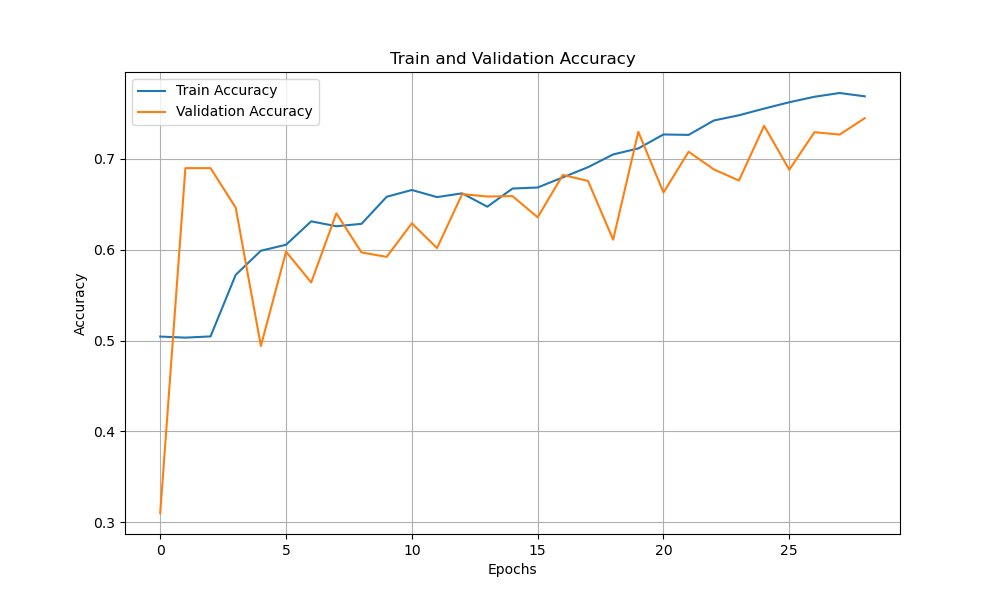
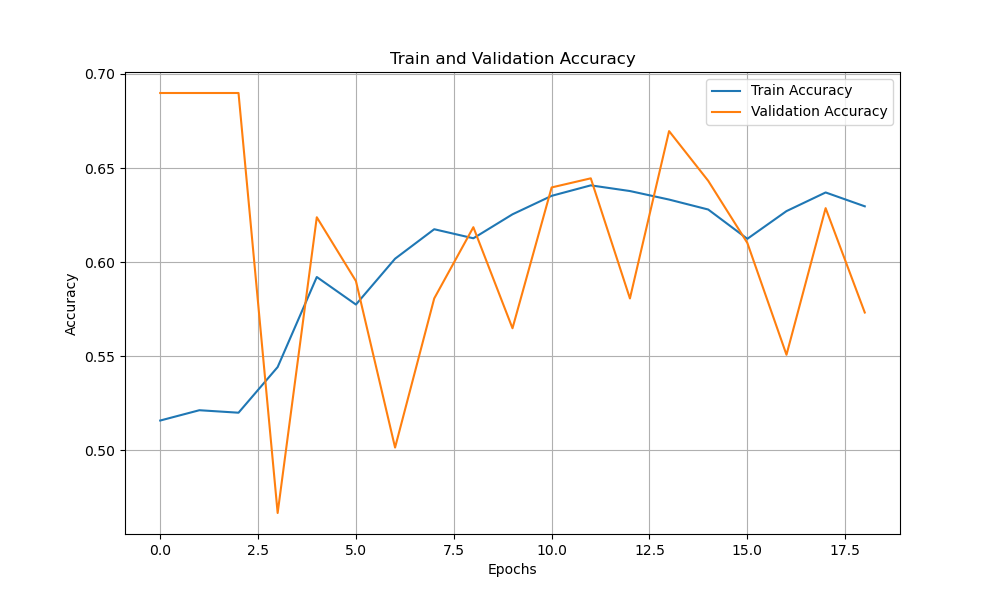
HuBERT feature extraction + 1D swin Transformer improvement

diff --git a/hubert_1d_swin/test_win128.py b/hubert_1d_swin/test_win128.py
@@ -1,0 +1,142 @@
+import os
+import torch
+import torch.nn as nn
+from torch.utils.data import DataLoader
+import pandas as pd
+import matplotlib.pyplot as plt
+from sklearn.metrics import accuracy_score, recall_score, f1_score, confusion_matrix
+import seaborn as sns
+from segdataset import SegmentedAudioDataset, collate_fn
+from swin_transformer_1d import Swin1D
+
+def test_model(model, dataloader, criterion, device):
+    """
+    테스트 데이터셋에 대해 모델 평가를 진행하고, 평균 손실, 정확도, UAR, Macro F1-score,
+    그리고 예측값과 정답 리스트를 반환합니다.
+    """
+    model.eval()
+    total_loss = 0
+    all_preds, all_labels = [], []
+    
+    with torch.no_grad():
+        for features, masks, labels in dataloader:
+            features, masks, labels = features.to(device), masks.to(device), labels.to(device)
+            outputs = model(features, masks)
+            loss = criterion(outputs, labels)
+            total_loss += loss.item()
+            
+            preds = torch.argmax(outputs, dim=1)
+            all_preds.extend(preds.cpu().numpy())
+            all_labels.extend(labels.cpu().numpy())
+    
+    avg_loss = total_loss / len(dataloader)
+    accuracy = accuracy_score(all_labels, all_preds)
+    uar = recall_score(all_labels, all_preds, average="macro")
+    f1 = f1_score(all_labels, all_preds, average="macro")
+    return avg_loss, accuracy, uar, f1, all_preds, all_labels
+
+def validate_file_paths(file_names, base_dir):
+    """
+    주어진 파일 이름 리스트에 대해, base_dir에서 해당 .pt 파일이 존재하는 경로만 반환합니다.
+    """
+    valid_paths = []
+    for file_name in file_names:
+        full_path = os.path.join(base_dir, file_name + ".pt")
+        if os.path.exists(full_path):
+            valid_paths.append(full_path)
+        else:
+            print(f"Warning: File not found - {full_path}")
+    return valid_paths
+
+if __name__ == "__main__":
+    # 환경 설정
+    os.environ["CUDA_DEVICE_ORDER"] = "PCI_BUS_ID"
+    os.environ["CUDA_VISIBLE_DEVICES"] = "3"
+    device = "cuda" if torch.cuda.is_available() else "cpu"
+
+    # 데이터 및 체크포인트 경로 설정 (train.py와 동일)
+    DATA_DIR = "/data/alc_jihan/extracted_features"
+    CSV_PATH = "/data/alc_jihan/split_index/dataset_split_sliced.csv"
+    CHECKPOINT_DIR = "/home/ai/said/hubert_1d_swin/checkpoint_win128"
+    MODEL_PATH = os.path.join(CHECKPOINT_DIR, "best_model.pth")
+    
+    MAX_SEQ_LENGTH = 2048
+    BATCH_SIZE = 64
+
+    # CSV 파일 로드 및 test split 데이터 추출 (Split 값이 "test"인 데이터)
+    df = pd.read_csv(CSV_PATH)
+    test_df = df[df["Split"] == "test"]
+
+    test_files = validate_file_paths(test_df["FileName"].tolist(), DATA_DIR)
+    test_labels = test_df.loc[
+        test_df["FileName"].isin([os.path.basename(f).replace(".pt", "") for f in test_files]),
+        "Class"
+    ].apply(lambda x: 0 if x == "Sober" else 1).tolist()
+
+    test_dataset = SegmentedAudioDataset(test_files, test_labels, max_seq_length=MAX_SEQ_LENGTH)
+    test_loader = DataLoader(test_dataset, batch_size=BATCH_SIZE, shuffle=False, collate_fn=collate_fn, num_workers=16)
+
+    # 클래스 불균형을 고려한 클래스 가중치 (train 시와 동일하게 적용)
+    class_counts = df[df["Split"] == "train"]["Class"].value_counts()
+    class_weights = torch.tensor(
+        [1.0 / class_counts["Sober"], 1.0 / class_counts["Intoxicated"]],
+        dtype=torch.float32
+    ).to(device)
+
+    # 모델 생성 (train.py에서 사용한 하이퍼파라미터와 동일)
+    model = Swin1D(
+        max_length=MAX_SEQ_LENGTH, 
+        window_size=128, 
+        dim=1024, 
+        feature_dim=1024, 
+        num_swin_layers=2, 
+        swin_depth=[2, 6], 
+        swin_num_heads=[4, 16]
+    ).to(device)
+
+    # 저장된 모델 파라미터 로드
+    if os.path.exists(MODEL_PATH):
+        model.load_state_dict(torch.load(MODEL_PATH, map_location=device))
+        print("Loaded model from:", MODEL_PATH)
+    else:
+        print("ERROR: Model checkpoint not found!")
+        exit(1)
+
+    criterion = nn.CrossEntropyLoss(weight=class_weights)
+
+    # 테스트 진행
+    test_loss, test_acc, test_uar, test_f1, all_preds, all_labels = test_model(model, test_loader, criterion, device)
+
+    # 테스트 결과를 콘솔에 출력
+    print("Test Results:")
+    print(f"Loss: {test_loss:.4f}")
+    print(f"Accuracy: {test_acc:.4f}")
+    print(f"UAR (Unweighted Average Recall): {test_uar:.4f}")
+    print(f"Macro F1-score: {test_f1:.4f}")
+
+    # 테스트 결과를 텍스트 파일로 저장
+    results_text = (
+        f"Test Results:\n"
+        f"Loss: {test_loss:.4f}\n"
+        f"Accuracy: {test_acc:.4f}\n"
+        f"UAR (Unweighted Average Recall): {test_uar:.4f}\n"
+        f"Macro F1-score: {test_f1:.4f}\n"
+    )
+    results_file = os.path.join(CHECKPOINT_DIR, "test_results.txt")
+    with open(results_file, "w") as f:
+        f.write(results_text)
+    print(f"Test results saved to: {results_file}")
+
+    # Confusion Matrix 계산 및 이미지 저장
+    cm = confusion_matrix(all_labels, all_preds)
+    plt.figure(figsize=(8, 6))
+    sns.heatmap(cm, annot=True, fmt="d", cmap="Blues",
+                xticklabels=["Sober", "Intoxicated"],
+                yticklabels=["Sober", "Intoxicated"])
+    plt.ylabel("True Label")
+    plt.xlabel("Predicted Label")
+    plt.title("Confusion Matrix")
+    cm_file = os.path.join(CHECKPOINT_DIR, "confusion_matrix.png")
+    plt.savefig(cm_file)
+    plt.close()
+    print(f"Confusion matrix saved to: {cm_file}")

diff --git a/hubert_1d_swin/test_win64.py b/hubert_1d_swin/test_win64.py
@@ -1,0 +1,142 @@
+import os
+import torch
+import torch.nn as nn
+from torch.utils.data import DataLoader
+import pandas as pd
+import matplotlib.pyplot as plt
+from sklearn.metrics import accuracy_score, recall_score, f1_score, confusion_matrix
+import seaborn as sns
+from segdataset import SegmentedAudioDataset, collate_fn
+from swin_transformer_1d import Swin1D
+
+def test_model(model, dataloader, criterion, device):
+    """
+    테스트 데이터셋에 대해 모델 평가를 진행하고, 평균 손실, 정확도, UAR, Macro F1-score,
+    그리고 예측값과 정답 리스트를 반환합니다.
+    """
+    model.eval()
+    total_loss = 0
+    all_preds, all_labels = [], []
+    
+    with torch.no_grad():
+        for features, masks, labels in dataloader:
+            features, masks, labels = features.to(device), masks.to(device), labels.to(device)
+            outputs = model(features, masks)
+            loss = criterion(outputs, labels)
+            total_loss += loss.item()
+            
+            preds = torch.argmax(outputs, dim=1)
+            all_preds.extend(preds.cpu().numpy())
+            all_labels.extend(labels.cpu().numpy())
+    
+    avg_loss = total_loss / len(dataloader)
+    accuracy = accuracy_score(all_labels, all_preds)
+    uar = recall_score(all_labels, all_preds, average="macro")
+    f1 = f1_score(all_labels, all_preds, average="macro")
+    return avg_loss, accuracy, uar, f1, all_preds, all_labels
+
+def validate_file_paths(file_names, base_dir):
+    """
+    주어진 파일 이름 리스트에 대해, base_dir에서 해당 .pt 파일이 존재하는 경로만 반환합니다.
+    """
+    valid_paths = []
+    for file_name in file_names:
+        full_path = os.path.join(base_dir, file_name + ".pt")
+        if os.path.exists(full_path):
+            valid_paths.append(full_path)
+        else:
+            print(f"Warning: File not found - {full_path}")
+    return valid_paths
+
+if __name__ == "__main__":
+    # 환경 설정
+    os.environ["CUDA_DEVICE_ORDER"] = "PCI_BUS_ID"
+    os.environ["CUDA_VISIBLE_DEVICES"] = "1"
+    device = "cuda" if torch.cuda.is_available() else "cpu"
+
+    # 데이터 및 체크포인트 경로 설정 (train.py와 동일)
+    DATA_DIR = "/data/alc_jihan/extracted_features"
+    CSV_PATH = "/data/alc_jihan/split_index/dataset_split_sliced.csv"
+    CHECKPOINT_DIR = "/home/ai/said/hubert_1d_swin/checkpoint_win64"
+    MODEL_PATH = os.path.join(CHECKPOINT_DIR, "best_model.pth")
+    
+    MAX_SEQ_LENGTH = 2048
+    BATCH_SIZE = 64
+
+    # CSV 파일 로드 및 test split 데이터 추출 (Split 값이 "test"인 데이터)
+    df = pd.read_csv(CSV_PATH)
+    test_df = df[df["Split"] == "test"]
+
+    test_files = validate_file_paths(test_df["FileName"].tolist(), DATA_DIR)
+    test_labels = test_df.loc[
+        test_df["FileName"].isin([os.path.basename(f).replace(".pt", "") for f in test_files]),
+        "Class"
+    ].apply(lambda x: 0 if x == "Sober" else 1).tolist()
+
+    test_dataset = SegmentedAudioDataset(test_files, test_labels, max_seq_length=MAX_SEQ_LENGTH)
+    test_loader = DataLoader(test_dataset, batch_size=BATCH_SIZE, shuffle=False, collate_fn=collate_fn, num_workers=16)
+
+    # 클래스 불균형을 고려한 클래스 가중치 (train 시와 동일하게 적용)
+    class_counts = df[df["Split"] == "train"]["Class"].value_counts()
+    class_weights = torch.tensor(
+        [1.0 / class_counts["Sober"], 1.0 / class_counts["Intoxicated"]],
+        dtype=torch.float32
+    ).to(device)
+
+    # 모델 생성 (train.py에서 사용한 하이퍼파라미터와 동일)
+    model = Swin1D(
+        max_length=MAX_SEQ_LENGTH, 
+        window_size=64, 
+        dim=1024, 
+        feature_dim=1024, 
+        num_swin_layers=2, 
+        swin_depth=[2, 6], 
+        swin_num_heads=[4, 16]
+    ).to(device)
+
+    # 저장된 모델 파라미터 로드
+    if os.path.exists(MODEL_PATH):
+        model.load_state_dict(torch.load(MODEL_PATH, map_location=device))
+        print("Loaded model from:", MODEL_PATH)
+    else:
+        print("ERROR: Model checkpoint not found!")
+        exit(1)
+
+    criterion = nn.CrossEntropyLoss(weight=class_weights)
+
+    # 테스트 진행
+    test_loss, test_acc, test_uar, test_f1, all_preds, all_labels = test_model(model, test_loader, criterion, device)
+
+    # 테스트 결과를 콘솔에 출력
+    print("Test Results:")
+    print(f"Loss: {test_loss:.4f}")
+    print(f"Accuracy: {test_acc:.4f}")
+    print(f"UAR (Unweighted Average Recall): {test_uar:.4f}")
+    print(f"Macro F1-score: {test_f1:.4f}")
+
+    # 테스트 결과를 텍스트 파일로 저장
+    results_text = (
+        f"Test Results:\n"
+        f"Loss: {test_loss:.4f}\n"
+        f"Accuracy: {test_acc:.4f}\n"
+        f"UAR (Unweighted Average Recall): {test_uar:.4f}\n"
+        f"Macro F1-score: {test_f1:.4f}\n"
+    )
+    results_file = os.path.join(CHECKPOINT_DIR, "test_results.txt")
+    with open(results_file, "w") as f:
+        f.write(results_text)
+    print(f"Test results saved to: {results_file}")
+
+    # Confusion Matrix 계산 및 이미지 저장
+    cm = confusion_matrix(all_labels, all_preds)
+    plt.figure(figsize=(8, 6))
+    sns.heatmap(cm, annot=True, fmt="d", cmap="Blues",
+                xticklabels=["Sober", "Intoxicated"],
+                yticklabels=["Sober", "Intoxicated"])
+    plt.ylabel("True Label")
+    plt.xlabel("Predicted Label")
+    plt.title("Confusion Matrix")
+    cm_file = os.path.join(CHECKPOINT_DIR, "confusion_matrix.png")
+    plt.savefig(cm_file)
+    plt.close()
+    print(f"Confusion matrix saved to: {cm_file}")

diff --git a/hubert_1d_swin/train_win128.py b/hubert_1d_swin/train_win128.py
@@ -77,7 +77,7 @@ def plot_metrics(train_values, val_values, metric_name, save_path):
 
 if __name__ == "__main__":
     os.environ["CUDA_DEVICE_ORDER"] = "PCI_BUS_ID"
-    os.environ["CUDA_VISIBLE_DEVICES"] = "3"
+    os.environ["CUDA_VISIBLE_DEVICES"] = "1"
     device = "cuda" if torch.cuda.is_available() else "cpu"
 
     DATA_DIR = "/data/alc_jihan/extracted_features"
@@ -87,7 +87,7 @@ if __name__ == "__main__":
     BATCH_SIZE = 64
     NUM_EPOCHS = 50
     LR = 1e-4
-    CHECKPOINT_DIR = "/home/ai/said/hubert_1d_swin/checkpoint"
+    CHECKPOINT_DIR = "/home/ai/said/hubert_1d_swin/checkpoint_win128"
     os.makedirs(CHECKPOINT_DIR, exist_ok=True)
 
     df = pd.read_csv(CSV_PATH)
@@ -133,7 +133,7 @@ if __name__ == "__main__":
     # num_swin_layers를 4로 설정하고, 각 스테이지에 맞게 swin_depth와 swin_num_heads를 수정합니다.
     model = Swin1D(
         max_length=MAX_SEQ_LENGTH, 
-        window_size=8, 
+        window_size=128, 
         dim=1024, 
         feature_dim=1024, 
         num_swin_layers=2, 

diff --git a/hubert_1d_swin/train_win64.py b/hubert_1d_swin/train_win64.py
@@ -77,7 +77,7 @@ def plot_metrics(train_values, val_values, metric_name, save_path):
 
 if __name__ == "__main__":
     os.environ["CUDA_DEVICE_ORDER"] = "PCI_BUS_ID"
-    os.environ["CUDA_VISIBLE_DEVICES"] = "3"
+    os.environ["CUDA_VISIBLE_DEVICES"] = "0"
     device = "cuda" if torch.cuda.is_available() else "cpu"
 
     DATA_DIR = "/data/alc_jihan/extracted_features"
@@ -87,7 +87,7 @@ if __name__ == "__main__":
     BATCH_SIZE = 64
     NUM_EPOCHS = 50
     LR = 1e-4
-    CHECKPOINT_DIR = "/home/ai/said/hubert_1d_swin/checkpoint"
+    CHECKPOINT_DIR = "/home/ai/said/hubert_1d_swin/checkpoint_win64"
     os.makedirs(CHECKPOINT_DIR, exist_ok=True)
 
     df = pd.read_csv(CSV_PATH)
@@ -133,7 +133,7 @@ if __name__ == "__main__":
     # num_swin_layers를 4로 설정하고, 각 스테이지에 맞게 swin_depth와 swin_num_heads를 수정합니다.
     model = Swin1D(
         max_length=MAX_SEQ_LENGTH, 
-        window_size=8, 
+        window_size=64, 
         dim=1024, 
         feature_dim=1024, 
         num_swin_layers=2, 
